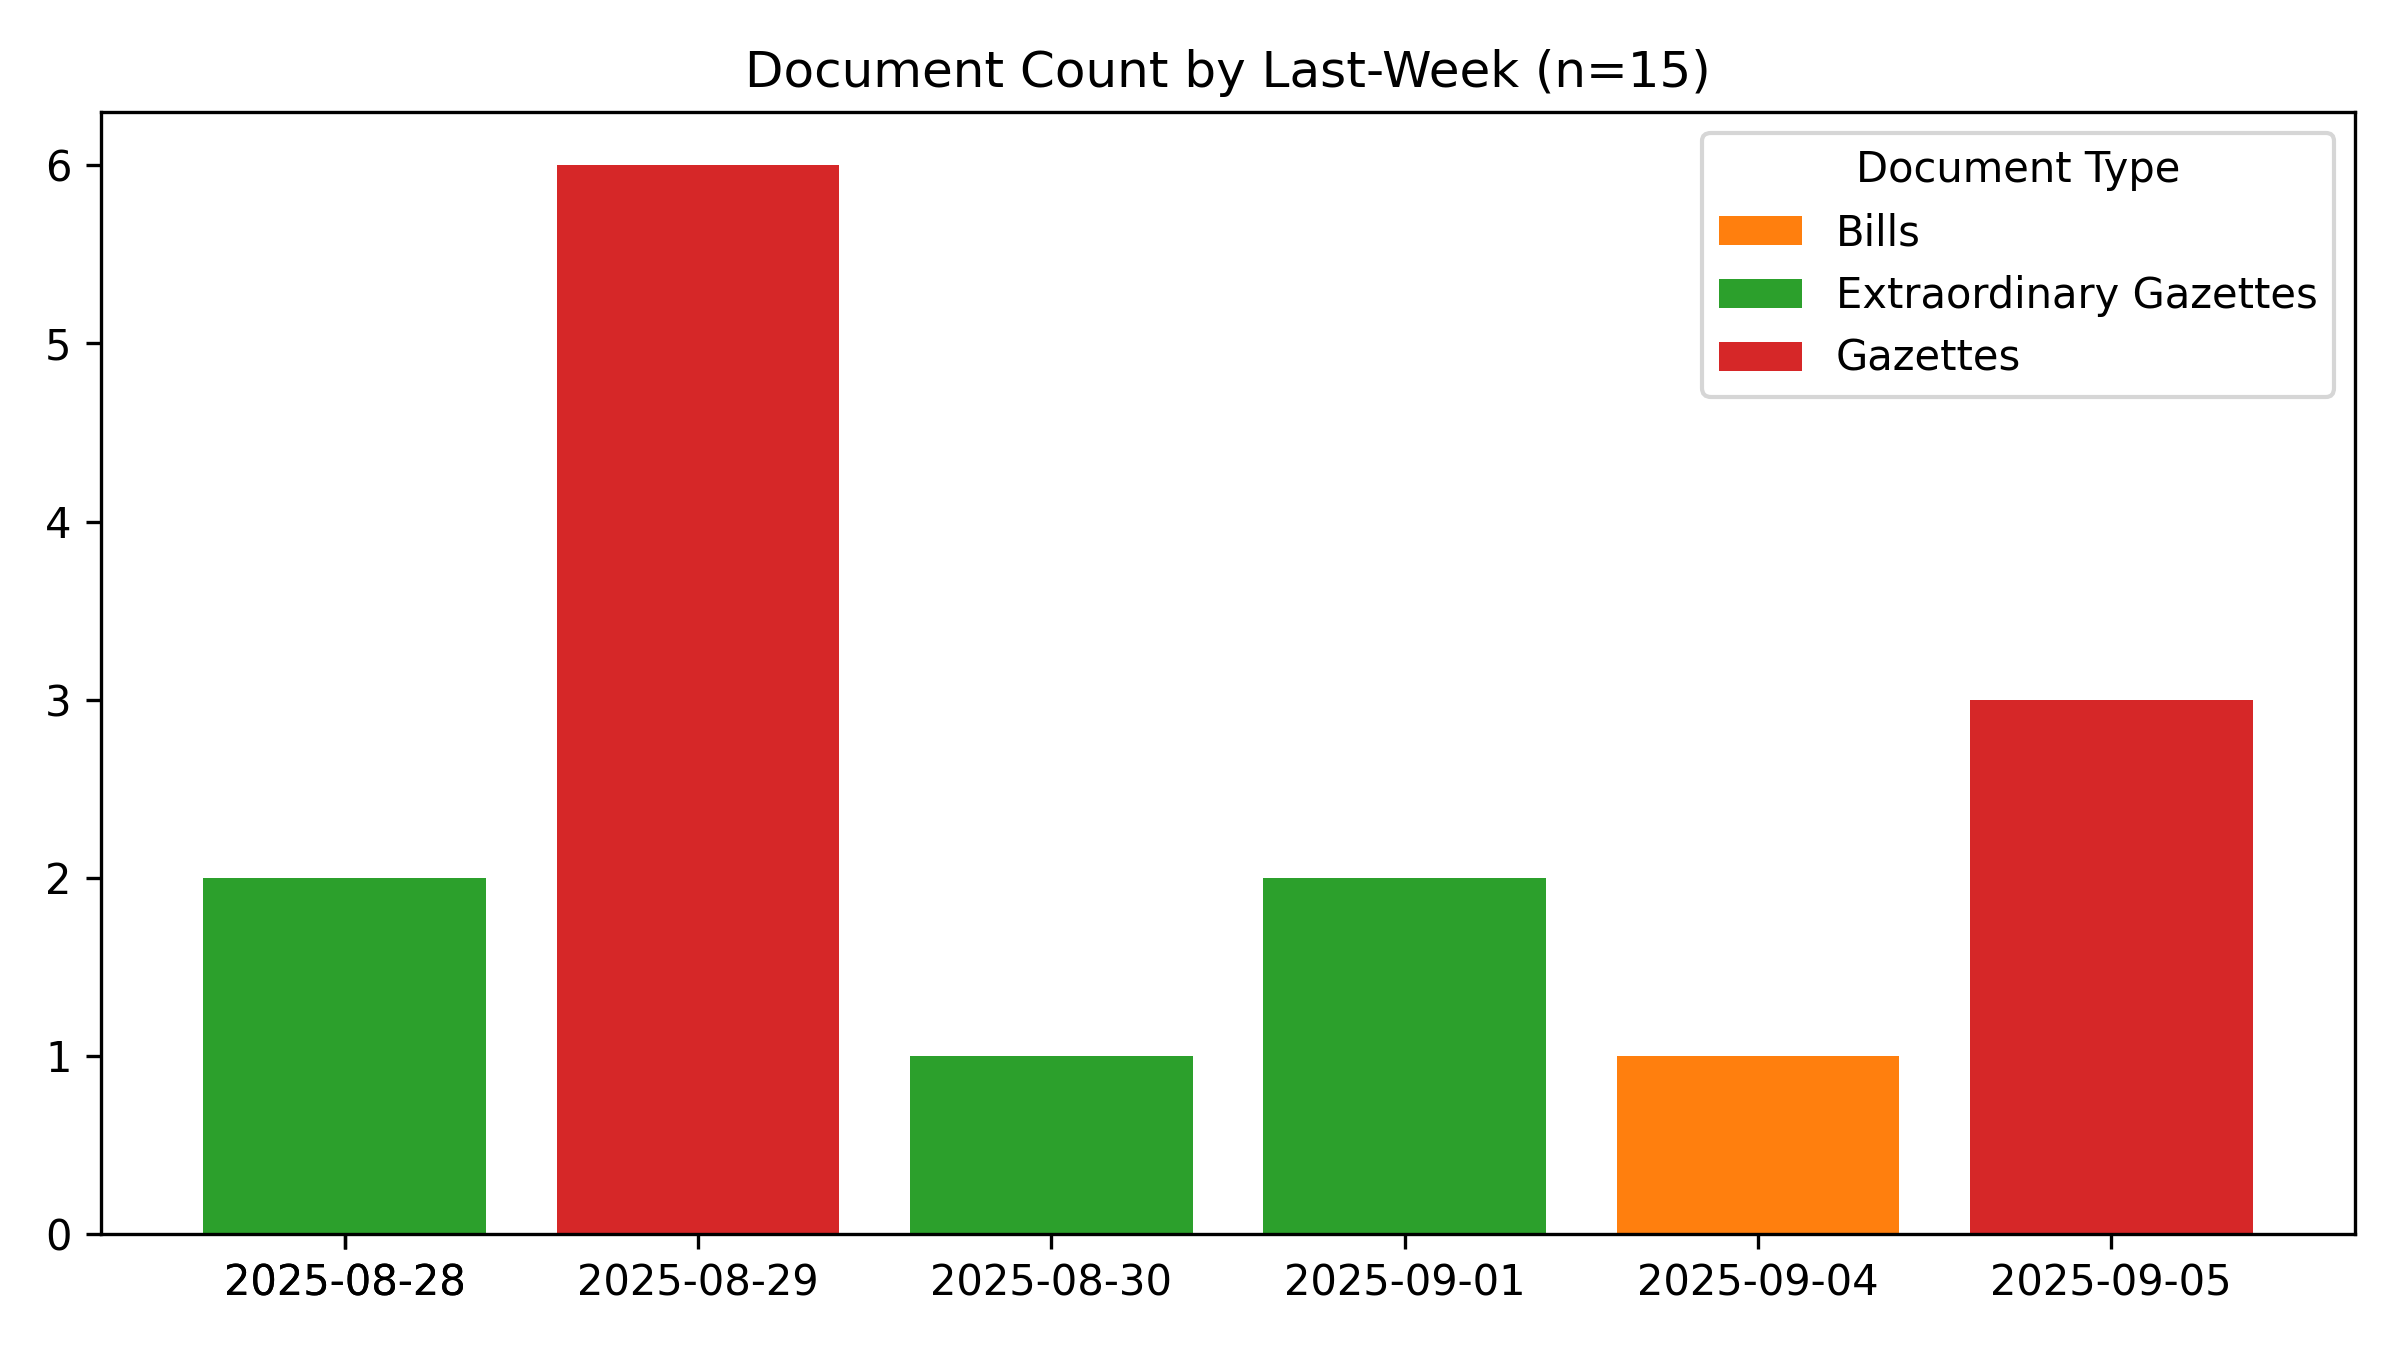
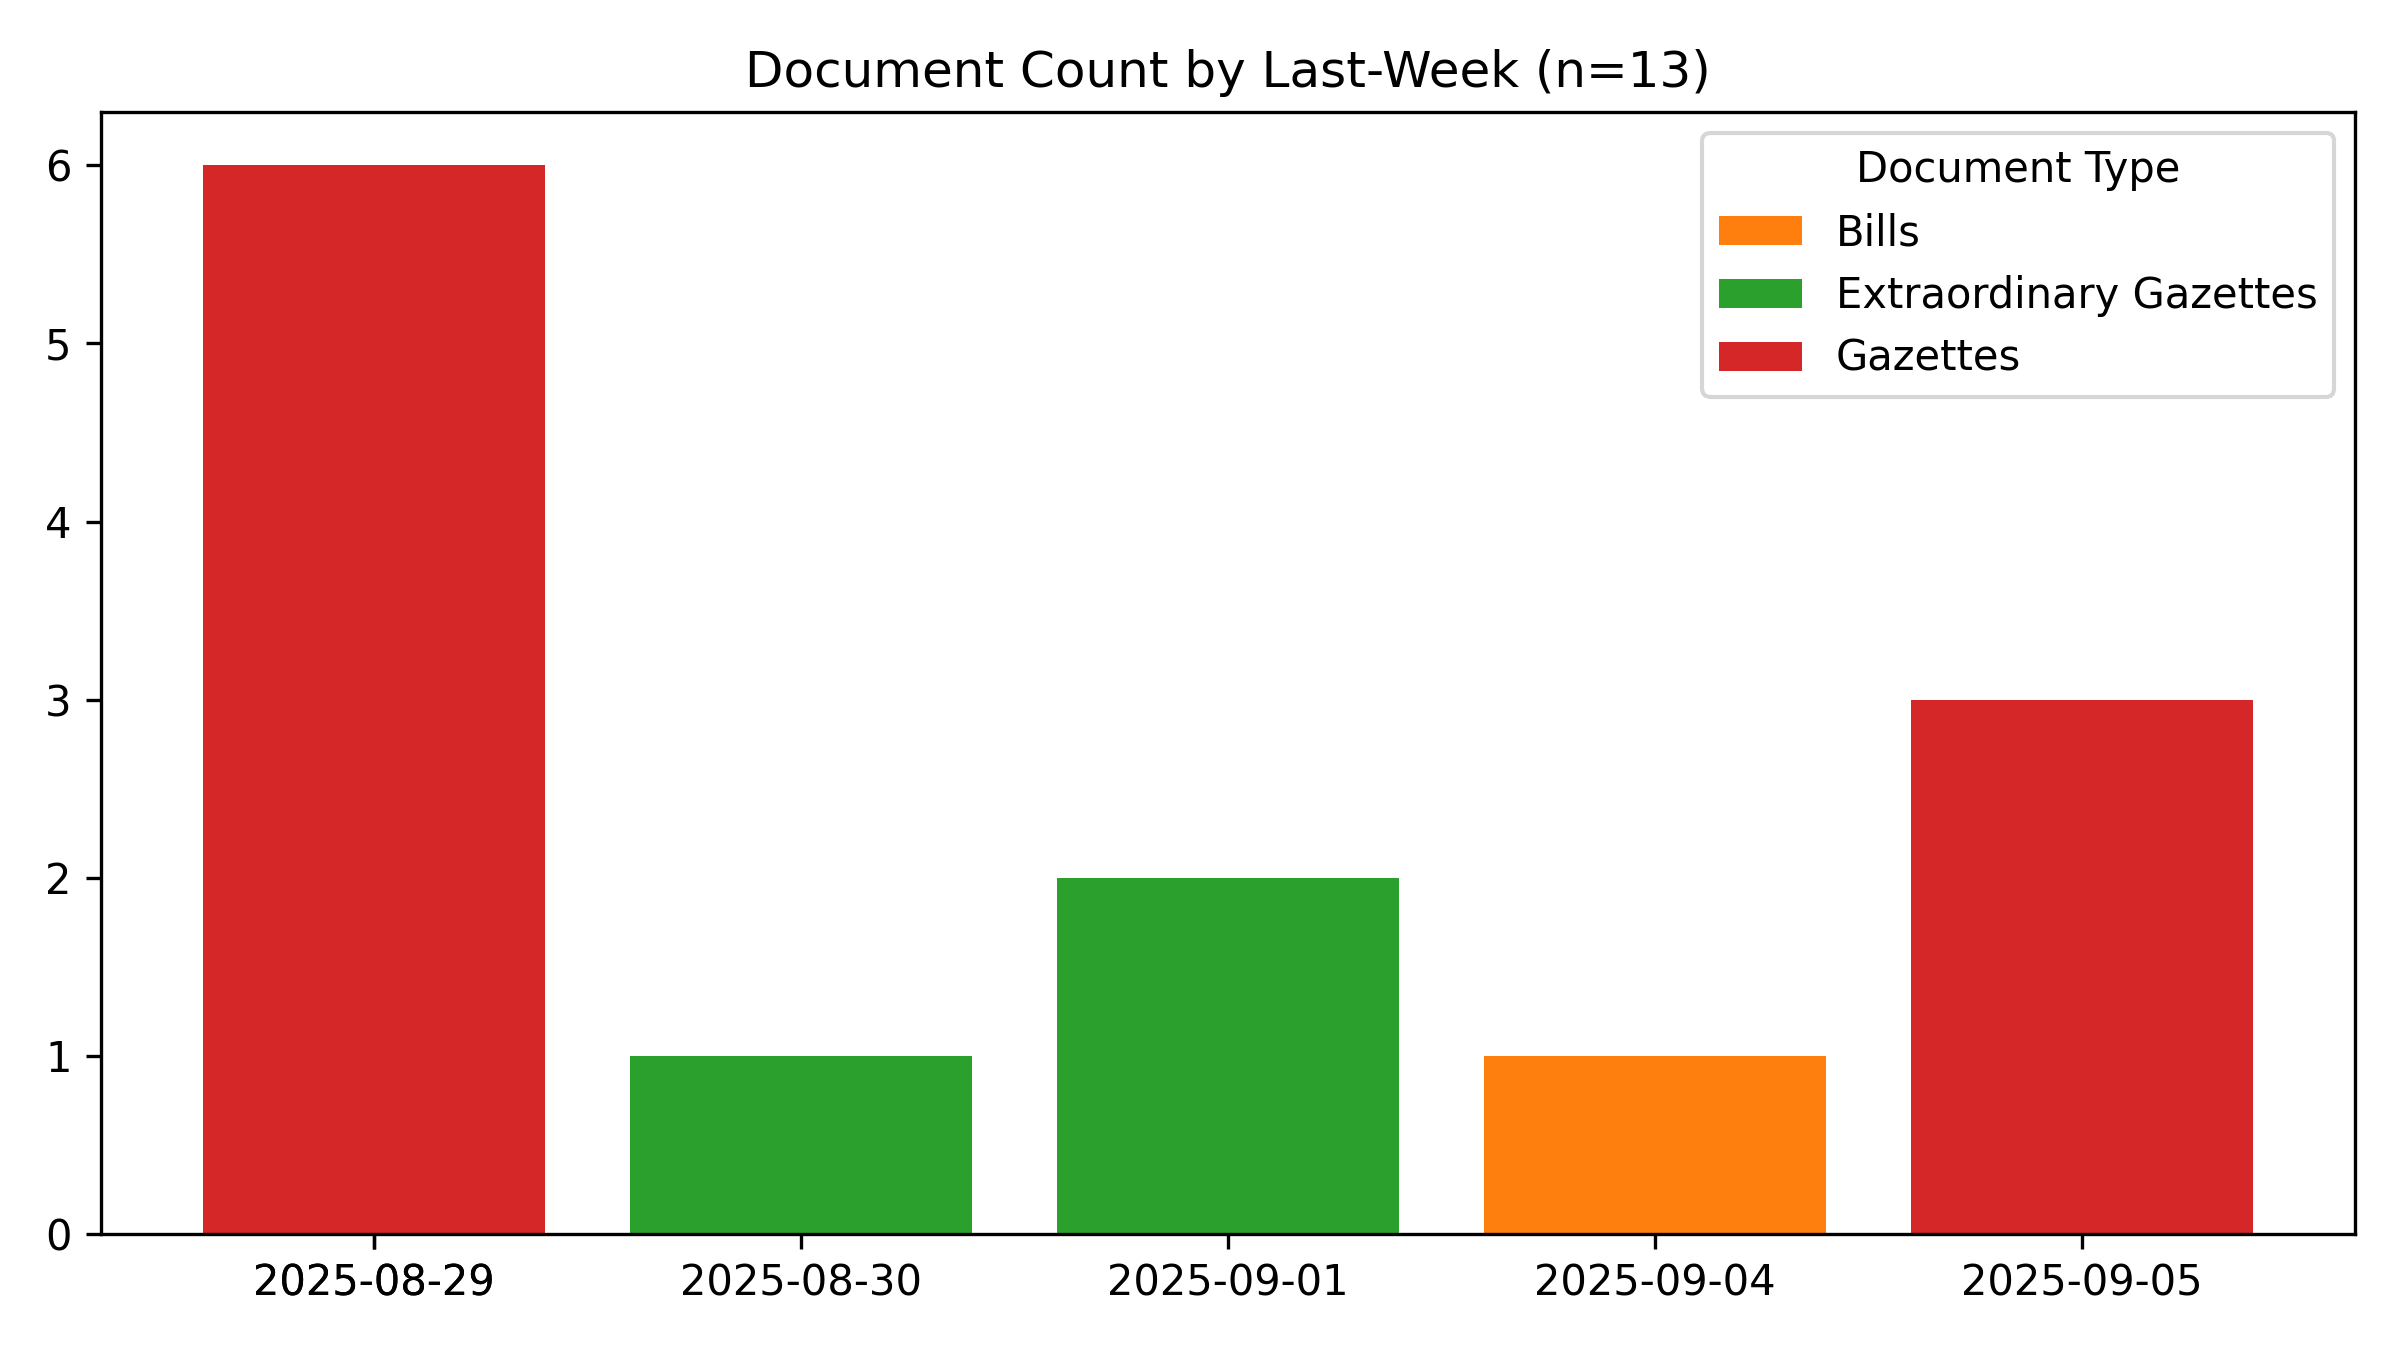
🤖 [build_readme.yml] 2025-09-05-0015

Changed region(s): [[0.0625, 0.1244, 0.8438, 0.9644], [0.8125, 0.9333, 0.9375, 0.9644]]

diff --git a/README.md b/README.md
@@ -1,6 +1,6 @@
 # #SriLanka 🇱🇰 - Legal Documents #Dataset
 
-*Last Updated **2025-09-05 05:12:27**.*
+*Last Updated **2025-09-05 05:45:23**.*
 
 **44,537** documents (24.3 MB), from 1981-01-22 to 2025-09-05.
 
@@ -54,7 +54,7 @@ For best results, use a desktop browser.
 
 ## Recent Documents (Published during the last 7 days)
 
-**15** Documents
+**13** Documents
 
 - 📢 [2025-09-05] [Legal Section](https://github.com/nuuuwan/lk_legal_docs_data/tree/data_2020s/data/gazettes/2025/2025-09-05-legal-section)
 - 📢 [2025-09-05] [Land Section](https://github.com/nuuuwan/lk_legal_docs_data/tree/data_2020s/data/gazettes/2025/2025-09-05-land-section)
@@ -69,5 +69,3 @@ For best results, use a desktop browser.
 - 📢 [2025-08-29] [(IIB) - Advertising](https://github.com/nuuuwan/lk_legal_docs_data/tree/data_2020s/data/gazettes/2025/2025-08-29-iib-advertising)
 - 📢 [2025-08-29] [(IIA) - Advertising](https://github.com/nuuuwan/lk_legal_docs_data/tree/data_2020s/data/gazettes/2025/2025-08-29-iia-advertising)
 - 📢 [2025-08-29] [(I) - General](https://github.com/nuuuwan/lk_legal_docs_data/tree/data_2020s/data/gazettes/2025/2025-08-29-i-general)
-- 🚨 [2025-08-28] [Land Title Settlement Dept. - Magammana, Homagama D/S Division, Colombo District (25/5514134)](https://github.com/nuuuwan/lk_legal_docs_data/tree/data_2020s/data/extra-gazettes/2025/2451-32)
-- 🚨 [2025-08-28] [2451/27](https://github.com/nuuuwan/lk_legal_docs_data/tree/data_2020s/data/extra-gazettes/2025/2451-27)
